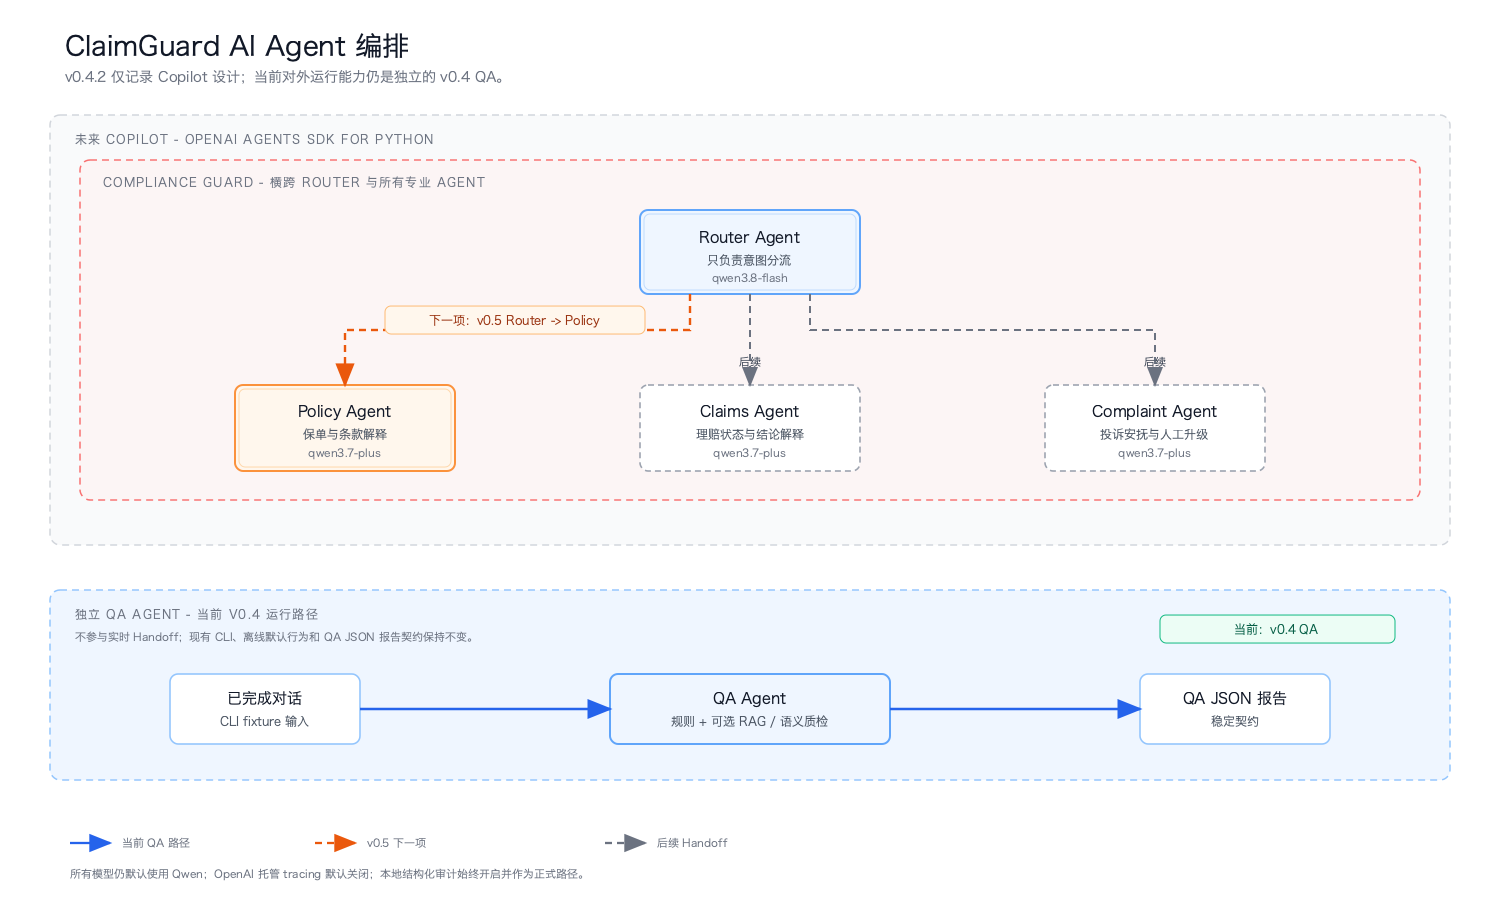
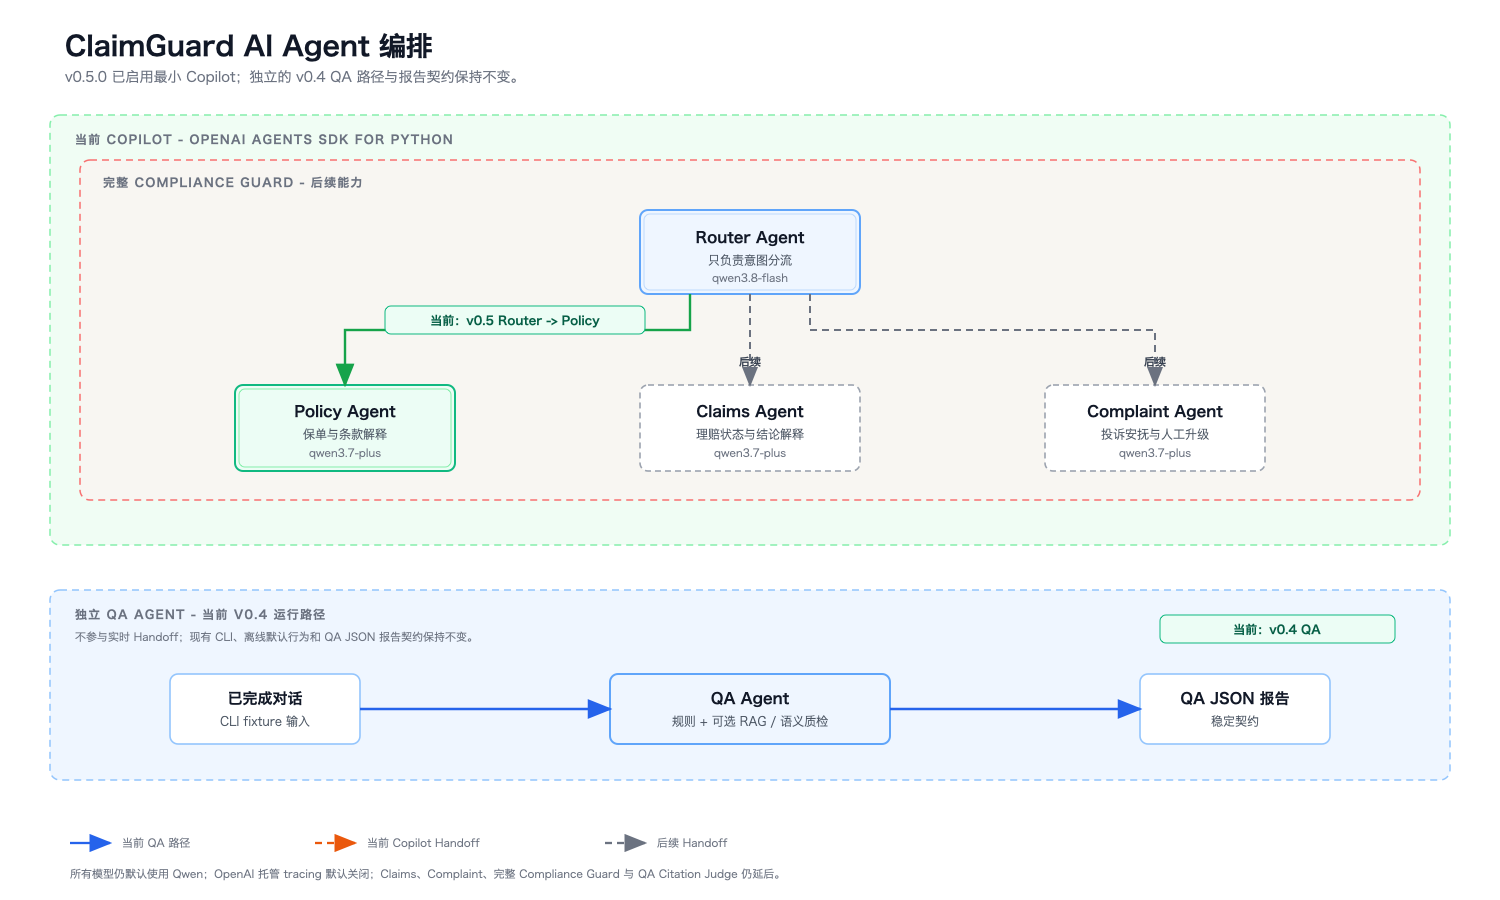
docs: release Agents SDK runtime foundation

diff --git a/tests/test_knowledge.py b/tests/test_knowledge.py
@@ -31,7 +31,7 @@ class StaticEmbeddingClient:
 
 
 class KnowledgeMetadataTest(unittest.TestCase):
-    def test_package_and_project_metadata_match_v0_4_2_release(self):
+    def test_package_and_project_metadata_match_v0_5_0_release(self):
         project_metadata = (
             Path(__file__).resolve().parents[1] / "pyproject.toml"
         ).read_text(encoding="utf-8")
@@ -43,8 +43,8 @@ class KnowledgeMetadataTest(unittest.TestCase):
 
         self.assertIsNotNone(project_version_match)
         project_version = project_version_match.group("version")
-        self.assertEqual(claimguard.__version__, "0.4.2")
-        self.assertEqual(project_version, "0.4.2")
+        self.assertEqual(claimguard.__version__, "0.5.0")
+        self.assertEqual(project_version, "0.5.0")
         self.assertEqual(project_version, claimguard.__version__)
 
 

diff --git a/src/claimguard/__init__.py b/src/claimguard/__init__.py
@@ -2,6 +2,6 @@
 
 from claimguard.rules import Rule, RuleCatalog, load_rule_catalog
 
-__version__ = "0.4.2"
+__version__ = "0.5.0"
 
 __all__ = ["Rule", "RuleCatalog", "__version__", "load_rule_catalog"]

diff --git a/docs/m5-agents-sdk-foundation.md b/docs/m5-agents-sdk-foundation.md
@@ -1,0 +1,51 @@
+# M5：Agents SDK 运行时基础
+
+`v0.5.0` 交付最小可运行的客服 Copilot 基础。当前仅启用 `Router -> Policy Handoff`：Router 识别保单、保障责任、等待期和免责等条款解释意图，并只可转交给 Policy Agent。Policy Agent 必须先调用 Policy Tool 检索条款；证据不足时返回 `human_takeover`，证据充分时才输出以“客服草稿：”开头的 `draft_ready`。
+
+Claims、Complaint、审批、任何副作用工具、完整 Compliance Guard、Reranking 和 QA Citation Judge 仍未启用。现有 QA CLI 保持独立，默认离线，且 QA JSON 报告契约不变。
+
+## 本地配置与边界
+
+项目最低 Python 版本为 3.10，满足 `openai-agents>=0.14,<0.15` 的运行要求。Copilot 使用阿里云 Model Studio 的 Qwen 兼容 API；建议在中国大陆部署时保留默认 endpoint：
+
+```text
+https://dashscope.aliyuncs.com/compatible-mode/v1
+```
+
+`DASHSCOPE_API_KEY` 只应通过本地被忽略的 `.env` 或显式进程环境变量提供。可选的 `CLAIMGUARD_DASHSCOPE_BASE_URL`、`CLAIMGUARD_ROUTER_MODEL` 和 `CLAIMGUARD_POLICY_MODEL` 用于本地覆盖。不要将 `.env`、`.claimguard/`、API Key 或审计文件提交到 Git。
+
+OpenAI 托管 tracing 默认关闭。只有显式设置 `CLAIMGUARD_OPENAI_TRACING_ENABLED=true` 才会开启；默认未设置或设置为 `false` 时，Agents SDK 使用关闭 tracing 的 `RunConfig`。
+
+默认审计路径是 `.claimguard/audit.jsonl`。每条审计事件包含运行结果所需的标识和状态，但拒绝原始客户消息、对话内容及任何凭据字段。`InMemorySessionStore` 仅保证同一进程内的多轮恢复；持久 Session、跨进程恢复和长期存储留待后续里程碑。
+
+## 演示步骤
+
+先使用现有本地 Qwen 配置创建知识索引。该命令会调用 Embedding 服务并把生成文件写入被忽略的 `.claimguard/`：
+
+```bash
+PYTHONPATH=src python3 -m claimguard.cli index data/knowledge/petcare-plus-policy-zh.md \
+  --output .claimguard/petcare-plus-policy.json
+```
+
+然后运行 Copilot：
+
+```bash
+PYTHONPATH=src python3 -m claimguard.copilot_cli \
+  --tenant-id demo-tenant --user-id agent-7 --session-id policy-demo-001 \
+  --index .claimguard/petcare-plus-policy.json \
+  "宠物投保后第二天就生病了，为什么不赔？"
+```
+
+成功输出是 JSON，其中 `current_agent` 为 `Policy Agent`，且 `draft` 以“客服草稿：”开头并只引用检索到的等待期条款。不要把输出中的任何本地配置值保存到文档、fixture 或提交信息。
+
+## 验证分层
+
+离线验证不读取 Key，也不发出网络请求：
+
+```bash
+git diff --check
+PYTHONPATH=src python3 -m unittest discover -s tests -v
+PYTHONPATH=src python3 -m claimguard.cli examples/conversations/claim-amount-dispute.json
+```
+
+索引创建和 Copilot 命令是受控的真实 Qwen smoke test，会使用已存在的本地配置和网络访问。运行前先完成离线验证；若本地配置、凭据或网络不可用，应保留离线验证证据并只报告不含凭据的安全阻塞原因。

diff --git a/docs/readme-visuals.md b/docs/readme-visuals.md
@@ -1,21 +1,21 @@
 # README 图示
 
-本文档记录截至 `v0.4.2` 更新的技术图。`v0.4.2` 增加已批准的 Agents SDK Copilot 设计，但不改变当前 v0.4 QA 的运行行为。
+本文档记录截至 `v0.5.0` 更新的技术图。v0.5.0 保留独立的 v0.4 QA，并将最小 Agents SDK Copilot 运行路径标记为当前能力。
 
 ## 资源
 
-- `docs/assets/architecture.svg`：保留索引构建与当前 QA 路径，并以虚线展示未来的 `Web/CLI -> Agents SDK Runner -> Qwen Provider` 以及本地 Session / Audit 边界。
+- `docs/assets/architecture.svg`：保留索引构建与当前 QA 路径，并展示已启用的 `Copilot CLI -> Agents SDK Runner -> Qwen Provider`、`Router -> Policy`、Policy Tool 以及本地 Session / Audit 边界。
 - `docs/assets/architecture.png`：用于视觉检查的渲染预览。
-- `docs/assets/roadmap.svg`：从当前 `v0.4.2` 架构准备到 `v1.0.0` 企业级演示的版本路线图，`v0.5.0` Agents SDK 基础标记为下一项。
+- `docs/assets/roadmap.svg`：从已交付的 `v0.5.0` Agents SDK 基础到 `v1.0.0` 企业级演示的版本路线图，`v0.6.0` Reranking + Citation Judge 标记为下一项。
 - `docs/assets/roadmap.png`：用于视觉检查的渲染预览。
 - `docs/assets/agent-orchestration.svg`：展示 `Router -> Policy / Claims / Complaint Handoff`、横跨所有 Copilot Agent 的 Compliance Guard，以及独立的 QA Agent。
 - `docs/assets/agent-orchestration.png`：用于视觉检查的渲染预览。
 
 ## 当前进度标记
 
-- 架构图将当前 v0.4 QA 与未来 Agents SDK 路径分开；未来路径与本地 Session / Audit 边界均使用虚线。
-- 路线图将 `v0.4.2` 架构准备标为当前，将 `v0.5.0` Agents SDK 基础标为下一项，后续依次为 `v0.6.0` 至 `v1.0.0`。
-- Agent 编排图只把 `Router -> Policy Handoff` 标为 `v0.5.0` 下一项；Claims 与 Complaint 保持后续状态，QA Agent 保持独立。
+- 架构图将独立 QA 与已启用的最小 Agents SDK 路径分开；Runner、Qwen Provider、Policy Tool 和本地 Session / Audit 均标记为已实现。
+- 路线图将 `v0.5.0` Agents SDK 基础标为当前，将 `v0.6.0` Reranking + Citation Judge 标为下一项，后续依次为 `v0.7.0` 至 `v1.0.0`。
+- Agent 编排图将 `Router -> Policy Handoff` 标为已实现；Claims、Complaint、完整 Compliance Guard 和 QA Citation Judge 保持后续状态，QA Agent 保持独立。
 - 所有图中的解释性标签均使用中文；Agent、Reranking、Web、API、模型名称和命令参数保持技术原文。
 
 ## 验证

diff --git a/docs/versioning.md b/docs/versioning.md
@@ -18,9 +18,9 @@ ClaimGuard AI 使用 `vX.Y.Z` 形式的 Git 发布标签。
 - 被忽略的本地 `.env` 配置回退是范围较小的操作者配置改进，因此为 `v0.3.1`。
 - M4 语义质检新增可选的结构化模型工作流、四条生效的语义规则、经过验证的引文证据和一个面向用户的 CLI 标志，因此是 `v0.4.0` 功能里程碑。
 - `v0.4.1` 是说明性文档和技术图的中文本地化补丁，不改变已交付功能的范围。
-- `v0.4.2` 是 OpenAI Agents SDK Copilot 架构文档检查点；它只记录 Router Handoff、Qwen Provider、本地 Session 与审计设计，不启用 Copilot 运行代码。
-- `v0.5.0` 将作为 Agents SDK 运行时基础里程碑，只启用最小 `Router -> Policy Handoff`。
-- 后续仅包含补丁的跟进应使用 `v0.4.3`、`v0.4.4` 等版本。
+- `v0.4.2` 是 OpenAI Agents SDK Copilot 架构文档检查点；它记录 Router Handoff、Qwen Provider、本地 Session 与审计设计。
+- `v0.5.0` 是 Agents SDK 运行时基础里程碑：启用 Qwen Provider、Agents SDK Runner、最小 `Router -> Policy Handoff`、Policy Tool、进程内 Session 和本地审计。
+- 后续仅包含补丁的跟进应使用 `v0.5.1`、`v0.5.2` 等版本。
 
 ## 实务规则
 

diff --git a/docs/superpowers/specs/2026-09-07-agents-sdk-copilot-architecture-design.md b/docs/superpowers/specs/2026-09-07-agents-sdk-copilot-architecture-design.md
@@ -1,7 +1,7 @@
 # OpenAI Agents SDK Copilot 架构设计
 
-日期：2026-09-07  
-目标版本：`v0.5.0` 至 `v1.0.0`  
+日期：2026-09-07
+目标版本：`v0.5.0` 至 `v1.0.0`
 当前基线：`v0.4.1`
 
 ## 1. 背景
